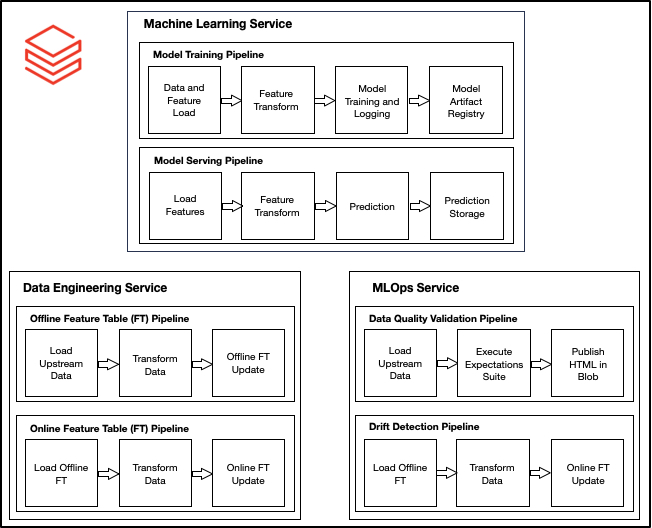
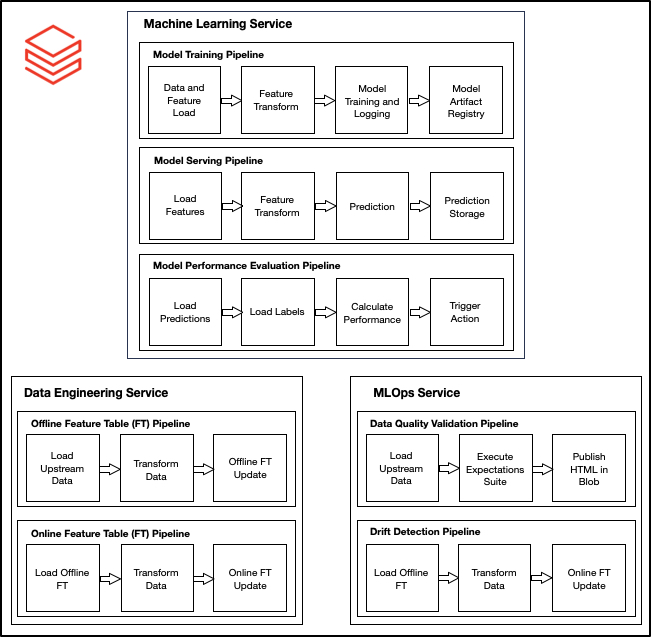
Enhancement: added performance evaluation pipeline to ML Service

Changed region(s): [[0.0, 0.0, 0.9816, 1.0], [0.0307, 0.0303, 0.1227, 0.1818]]

diff --git a/Data_Engineering_Service/feature_store_training_daily.py b/Data_Engineering_Service/feature_store_training_daily.py
@@ -6,33 +6,57 @@ from pathlib import Path
 import os
 import random
 
+# Get filtering condition
+today = datetime.now()
+cutoff = today - timedelta(days=2)
+cutoff = cutoff.strftime("%Y-%m-%d")
+
 # Load in table
 path = ""
 data = (
     spark.read.options(delimiter="\u0001", header=True)
     .csv(path)
-    .distinct()
     .withColumn(
         "row_number",
         row_number().over(
             Window.partitionBy("ID", "Date", "CustomerNumber").orderBy(
-                column("DateUpdated").desc()
+                column("Date").desc()
             )
         ),
     )
     .where(column("row_number") == 1)
     .drop("row_number")
 )
+data = data.filter(data.Date >= cutoff)
 
-# Update Feature Table; if table does not exist, create one
-fs = feature_store.FeatureStoreClient()
-if spark._jsparkSession.catalog().tableExists("offline", "training"):
-    fs.write_table(name="offline.training", df=data, mode="overwrite")
-else:
-    fs.create_feature_table(
-        name="offline.training",
-        keys=["ID", "Date", "CustomerNumber"],
-        features_df=data,
-        partition_columns=["CustomerState"],
-        description="ARDS Feature Table",
+# Insert new records if new labeled data is available
+if len(data.head(1)) > 0:
+    # Select columns for downstream consumption
+    data = data.select(
+        "ID",
+        "Date",
+        "CustomerNumber",
+        "CustomerState",
+        "Feature1",
+        "Feature2",
+        "Feature3",
+        "Feature4",
+        "Target",
     )
+    # Impute odd level of Feature4
+    data = data.withColumn(
+        "Feature4", when(data.Feature4 == "Unknown", "Status1").otherwise(data.Feature4)
+    )
+
+    # Update Feature Table; if table does not exist, create one
+    fs = feature_store.FeatureStoreClient()
+    if spark._jsparkSession.catalog().tableExists("offline", "training"):
+        fs.write_table(name="offline.training", df=data, mode="overwrite")
+    else:
+        fs.create_feature_table(
+            name="offline.training",
+            keys=["ID", "Date", "CustomerNumber"],
+            features_df=data,
+            partition_columns=["CustomerState"],
+            description="ARDS Feature Table",
+        )

diff --git a/Machine_Learning_Service/perf_eval_pipeline.py b/Machine_Learning_Service/perf_eval_pipeline.py
@@ -1,0 +1,30 @@
+from databricks import feature_store
+from databricks.feature_store.entities.feature_lookup import FeatureLookup
+from datetime import date
+from helperFunctions import trigger_actions
+import pandas as pd
+from sklearn.metrics import accuracy_score
+
+# Load predictions
+today = datetime.now()
+cutoff = today - timedelta(days=32)
+cutoff = cutoff.strftime("%Y-%m-%d")
+
+path = "/example_classifier_predictions/*.csv"
+predictions = spark.read.options(header=True).csv(path)
+predictions = predictions.filter(predictions.Prediction_Date >= cutoff)
+
+# Load labels
+fs = feature_store.FeatureStoreClient()
+query = "SELECT * FROM offline.training WHERE Date >= {0}".format(cutoff)
+data = spark.sql(query)
+data = data.select("ID", "Target")
+to_evaluate = data.join(predictions, data.ID == predictions.ID, "left").toPandas()
+
+# Calculate performance
+performance = accuracy_score(
+    list(to_evaluate["Target"]), list(to_evaluate["Prediction"])
+)
+
+# Trigger actions
+trigger_actions(score=performance, acceptable_performance=0.6)

diff --git a/Machine_Learning_Service/serving_pipeline.py b/Machine_Learning_Service/serving_pipeline.py
@@ -26,8 +26,7 @@ clf = load_mlflow(model_name=model_name, stage="Production")
 todays_date = date.today()
 data = data.toPandas()
 del data["CustomerState"]
-preds = clf.predict_proba(data)
-preds = [x[1] for x in preds]
+preds = clf.predict(data)
 data["Prediction"] = preds
 data["Prediction_Date"] = [todays_date] * len(preds)
 

diff --git a/README.md b/README.md
@@ -31,7 +31,7 @@ Details for the Data Engineering Services and its components can be found in the
 
 ## Machine Learning Service
 
-The Machine Learning Service consists of 2 scheduled pipelines that leverages the outputs of the Data Engineering Service to train an ML pipeline and use that pipeline to service predictions for downstream consumption. Model training and serving pipelines utilizes the Databricks MLflow integration for model artifact management and the respective Databricks Feature Store tables.
+The Machine Learning Service consists of 3 scheduled pipelines that leverages the outputs of the Data Engineering Service to train an ML pipeline and use that pipeline to service predictions for downstream consumption. Model training and serving pipelines utilizes the Databricks MLflow integration for model artifact management and the respective Databricks Feature Store tables. Finally, the overall ML pipeline is evaluated and retrained if model has deteriorated.
 
 Details for the Machine Learning Services and its components can be found in the "Machine_Learning_Service" folder: 
 1. Model Training Pipeline: trains ML pipeline, which packs both the feature extractor and ML model into a serialized scikit-learn Pipeline object. This is scheduled to run on a monthly cadence.
@@ -40,6 +40,8 @@ Details for the Machine Learning Services and its components can be found in the
 2. Model Serving Pipeline: services ML pipeline for predictions. This is scheduled to run on a daily cadence.
     - MLflowFunctions.py
     - serving_pipeline.py
+3. Model Performance Evaluation Pipeline: evaluates ML pipeline on last 31 days worth of data (accounting for a 1-day label delay) and triggers model retraining based on acceptable performance of ML pipeline.
+    - perf_eval_pipeline.py
 
 ## MLOps Service
 
